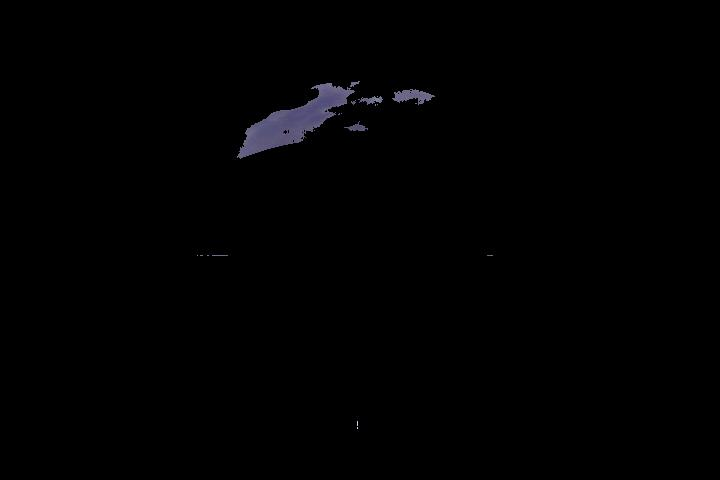
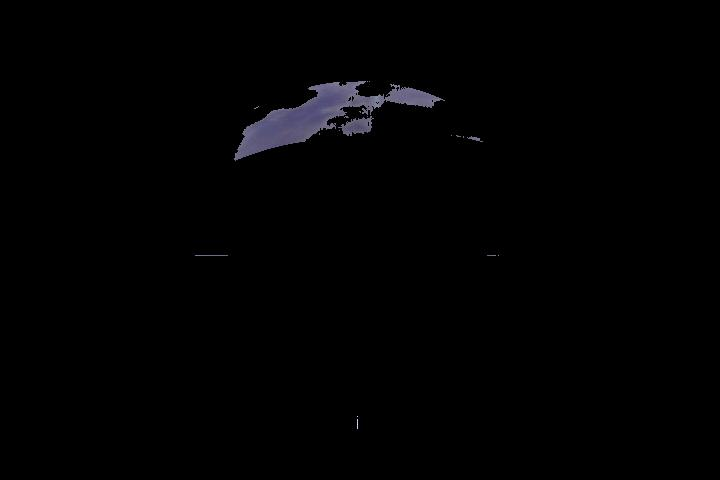
update the criterion for blue sky pixels

diff --git a/main.py b/main.py
@@ -16,7 +16,7 @@ from utils import (
 )
 
 
-def main(sc: float) -> None:
+def main() -> None:
     BLACK_PIXEL = (0, 0, 0)
     image_filenames = glob.glob("./images/*.jpg")
     image_filenames.sort()  # alaphabetically sort the list of file names
@@ -52,7 +52,7 @@ def main(sc: float) -> None:
                 )
                 # if alititude and central angle do not meet the criteria or pixel is not a blue sky pixel, set RGB value to black
                 if not (selection_criteria(altitude, central_angle)) or not (
-                    is_blue_sky(pixel, sc)
+                    is_blue_sky(pixel)
                 ):
                     image.putpixel((x, y), BLACK_PIXEL)
         new_filename = image_filename[:9] + "output/" + image_filename[9:]
@@ -61,4 +61,4 @@ def main(sc: float) -> None:
 
 
 if __name__ == "__main__":
-    main(float(sys.argv[1]))
+    main()

diff --git a/utils.py b/utils.py
@@ -1,6 +1,7 @@
 from typing import Tuple
 
 import math
+import statistics
 
 
 def center_x_y(x: int, y: int) -> Tuple:
@@ -28,12 +29,11 @@ def is_sky_region(x, y, theta):
     return r < rho
 
 
-def is_blue_sky(pixel, sc):
-    r = pixel[0]  # red pixel value
-    b = pixel[2]  # green pixel value
-    blue_sky_value = (2 * (b - r)) / (r + b)
+def is_blue_sky(pixel):
+    avg = statistics.mean(pixel)
+    std = statistics.stdev(pixel)
 
-    return blue_sky_value > sc
+    return std / avg > 0.1
 
 
 def selection_criteria(altitude, central_angle):
